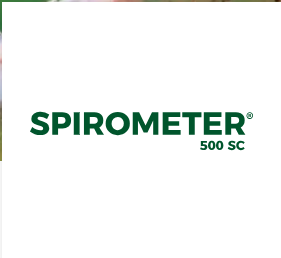
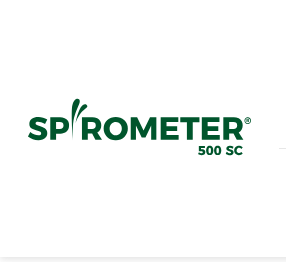
updated with new products

Changed region(s): [[0.0854, 0.3721, 0.911, 0.6202], [0.0, 0.0, 1.0, 0.6202]]

diff --git a/public/script.js b/public/script.js
@@ -522,7 +522,7 @@ const solutions = [
     },
     { 
         problem: "Pyracopp", 
-        infestationimage: "./images/Pyracop.png",
+        infestationimage: "./images/pyracopp.jpeg",
         description: " Contains <strong>Pyraclostrobin 10% + Copper Oxychloride 30%</strong>Pyracopp 400 SC is a fungicide formulation designed to target various fungal pathogens such as Puccinia spp./Rusts, Pyrenophora teres, and Septoria tritici, which commonly affect crops.Target: Septoria tritici, Puccinia spp./Rusts, Pyrenophora teres, Coffee Rust, Coffee Berry Diseas",
         solution: "Use <strong>Pyracopp</strong> 10mls/20ltrs + <strong>Polysil</strong> 2mls/20ltrs",
         sprayingintervals: "Repeat spray after 14-21 days.",
@@ -544,7 +544,7 @@ const solutions = [
     },
     { 
         problem: "Pendistar", 
-        infestationimage: "./images/Pendistar.png",
+        infestationimage: "./images/pendistar.jpeg",
         description: " Contains <strong>Pendimethalin 450 g/l</strong> Pendistar 450 CS is a powerful selective broad-spectrum pre-emergence systemic capsule suspension herbicide for controlling various weeds, including annual and perennial grasses, broadleaf species, and woody species in maize, rice, wheat, and barley fields.",
         solution: "Use <strong>Pendistar</strong> 250mls/20ltrs",
         sprayingintervals: "Do a one off spray 3-4 days after transplanting",
@@ -649,7 +649,7 @@ const solutions = [
         description: "Passion fruit broad mites <strong>Polyphagotarsonemus latus</strong> are tiny pests that damage passion fruit plants by feeding on young leaves, shoots, and fruits. They cause leaf curling, bronzing, and stunted growth. Control methods include miticides, predatory mites, and proper pruning.",
         solution: "Use <strong>Growprid</strong> 2.5gms/20ltrs + <strong>Polysil</strong> 2mls/20ltrs",
         sprayingintervals: "Repeat spray after 14-21 days.",
-        image: "./images/Growprid.jpg",
+        image: "./images/Growprid.jpeg",
         availablepacksize:"25gms,50gms,1kg.",
         pricerange:"(300-350),(600-650),(8800-9000)"
        
@@ -660,7 +660,7 @@ const solutions = [
         description: "Passion fruit thrips are tiny insects that feed on leaves, flowers, and fruits, causing scarring, deformations, and yield loss. They thrive in dry conditions and spread quickly. Control includes insecticides, neem oil, and natural predators.",
         solution: "Use <strong>Growprid</strong> 2.5gms/20ltrs + <strong>Polysil</strong> 2mls/20ltrs",
         sprayingintervals: "Repeat spray after 14-21 days.",
-        image: "./images/Growprid.jpg",
+        image: "./images/Growprid.jpeg",
         availablepacksize:"25gms,50gms,1kg.",
         pricerange:"(300-350),(600-650),(8800-9000)"
        
@@ -1191,17 +1191,28 @@ const solutions = [
         pricerange:"(400-450),(800-850),(1900-2000),(7500-7800)"
        
     },
-
-
     { 
-        problem: "Spinotech", 
-        infestationimage: "./images/Spinotech.jpg",
-        description: "SPINOTECH 480 SC Contains <strong>Spinosad 480 g/l</strong>, Spinosad is a naturally occurring substance found in Spinotech 480 SC that specifically affects GABA-gated ion channels and neuroreceptors in the nervous system of insects.Target: Thrips, Gypsy moth, Leaf beetles, Tent caterpillars, Colorado potato beetle, Leaf miner",
-        solution: "Use <strong>Spinotech</strong> 3-4mls/20ltrs + <strong>Polysil</strong> 2mls/20ltrs",
+        problem: "Broadgurd", 
+        infestationimage: "./images/Broadguard.jpeg",
+        description: " Broadguard <strong> Quizalofop-ethyl 200g/l</strong> is a selective post emergence herbicide primarily used for controlling annual and perennial weeds in crops like potatoes, french beans , and normal beans.",
+        solution: "Use <strong>Broadguard</strong> 10mls/20ltrs + <strong>Polysil</strong> 2mls/20ltrs",
+        sprayingintervals: "Do a one off spray 2-3 weeks after germination.",
+        image: "./images/weeds_control_in_beans.jpg",
+        availablepacksize:"100mls,500mls,1ltr.",
+        pricerange:"(1450-1500),(6800-7000),(11800-12200)"
+       
+    },
+
+    
+    { 
+        problem: "Spirometer", 
+        infestationimage: "./images/Spirometer.png",
+        description: " Spirometer ontains<strong>Spirotetramat 500 g/l</strong>Spirometer 500 SC is a potent insecticide containing Spirotetramat, which disrupts feeding and growth in sucking pests like aphids, whiteflies, and mites. It prioritises crop safety, environmental sustainability, and integrated pest management.",
+        solution: "Use <strong>Spinotech</strong> 5mls/20ltrs + <strong>Polysil</strong> 2mls/20ltrs",
         sprayingintervals: "Repeat spray after 7-14 days.",
-        image: "./images/Capsicum thrips.jpg",
-        availablepacksize:"50mls,100mls,250mls,1ltr.",
-        pricerange:"(200-250),(300-350),(650-750),(2900-3000)"
+        image: "./images/spidermites spiro.jpg",
+        availablepacksize:"50mls,100mls,1ltr.",
+        pricerange:"(1250-1300),(1900-2000),(12500-13000)"
        
     },
     { 
